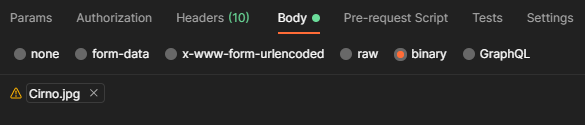
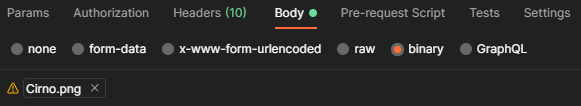
Update Extra

diff --git a/Módulo 4/Extra/Archivos Locales/README.md b/Módulo 4/Extra/Archivos Locales/README.md
@@ -7,18 +7,18 @@ Recuerda llenar datos adicionales como el header `Ocp-Apim-Subscription-Key`
 ![Imagen 1](assets/1.png)  
 
 Dirígete a **Headers**, y añade el header `Content-Type`. En clases pasadas, se ha estado usando el valor de `application/json`, pero para utilizar archivos locales tendremos que utilizar `application/octet-stream`.
-![Imagen 2](assets/2.png)
+![Imagen 2](assets/2.png)  
 
 Ahora dirígete a **Body**. Normalmente utilizaríamos un tipo `raw` de formato `JSON`, como esto:  
 ![Imagen 3](assets/3.png)  
 
 Sin embargo, para usar archivos locales utilizamos un `binary`. Seleccionamos el tipo, y al hacerlo aparecerá un botón llamado **Select File**, hacemos click y seleccionamos el archivo con el selector que se nos proporciona. Yo voy a usar [esta imagen de Cirno](assets/Cirno.png).
 ![Imagen 4](assets/4.png)  
-Al seleccionarla, aparecerá su nombre.
+Al seleccionarla, aparecerá su nombre.  
 ![Imagen 5](assets/5.png)  
 
 Ahora puedes enviar la petición sin problema!
-![Imagen 6](assets/6.png)
+![Imagen 6](assets/6.png)  
 - - -
 ## En Node (JavaScript)
 
@@ -28,14 +28,14 @@ Este módulo provee varias funcionalidades relacionadas con archivos.
 Una de estas funcionalidades es `fs.createReadStream()`, ésta crea un Stream binario que se puede utilizar para los APIs.
 - - -
 Primero, debemos tener instalado el módulo `axios` para realizar las peticiones. Empecemos con un código base.  
-![Imagen 7](assets/7.png)
+![Imagen 7](assets/7.png)  
 Ahora, llenamos los datos.  
 En `data.body`, creamos un Stream. Usamos `createReadStrean('./path/to/file.png')`, donde la ruta es un [Path](https://nodejs.org/api/path.html). En mi caso, utilizo:
 ```js
 createReadStream('./assets/Cirno.png')
-```
+```  
 
-En `data.opts.headers['Content-Type']`, ponemos `application/octet-stream`.  
+En `data.opts.headers['Content-Type']`, ponemos `'application/octet-stream'`.  
 
 Nuestro código resultante: 
 ```js
@@ -57,11 +57,11 @@ post(data.url, data.body, data.opts)
     .then(({ data }) => console.log(data))
     .catch(console.error);
 ```
-Corre el archivo con `node archivo.js`, y saldrá un objeto con los datos regresados. De ahí puedes hacer magia como accesar `data.description.captions[0].text` (el resultado de la detección).
+Corre el archivo con `node archivo.js`, y saldrá un objeto con los datos regresados. De ahí puedes hacer magia como accesar `data.description.captions[0].text` (el resultado de la detección).  
 
-Puedes revisar el código comentado y  en [peticion.js](peticion.js)
+Puedes revisar el código comentado y  en [peticion.js](peticion.js)  
 
-Si tienes una pregunta, me puedes contactar en Teams
+Si tienes una pregunta, me puedes contactar en Teams.  
 Espero esto ayude!
 - - -
-Fernando González
+Fernando González, 2021
